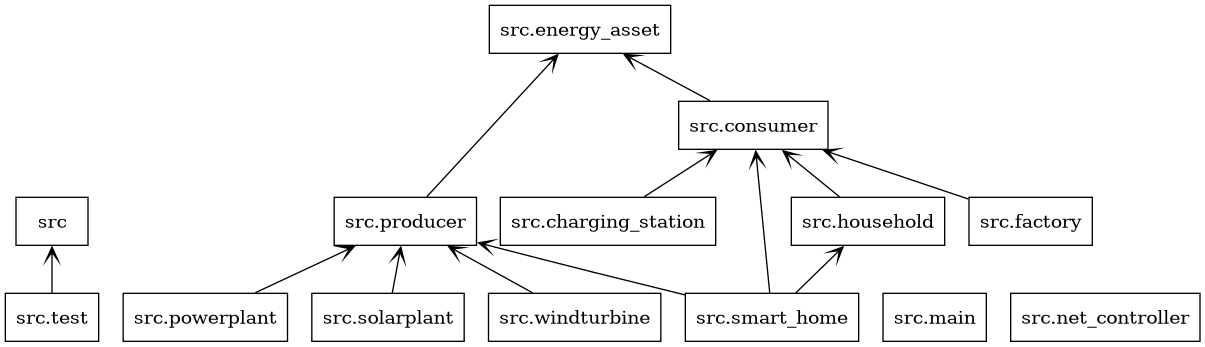
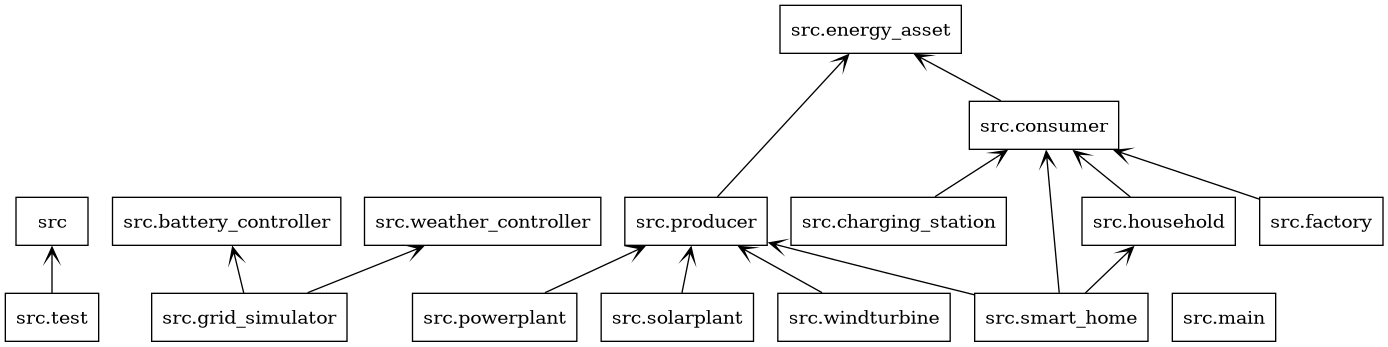
Updated UML chart

diff --git a/src/smart_home.py b/src/smart_home.py
@@ -1,4 +1,4 @@
-from household import HouseHold
+from .household import HouseHold
 from .consumer import Consumer
 from .producer import Producer
 
@@ -7,7 +7,6 @@ class SmartHome(HouseHold, Producer):
     def __init__(self, num_residents: int, asset_id: int, priority: int):
         HouseHold.__init__(self, asset_id, num_residents, priority)
         Producer.__init__(self, 100, 1, asset_id)
-        self.num_residents = num_residents
     def produce(self, current_hour: int, weather_data: dict) -> float:
         pass
     def consume(self, current_hour: int) -> float: